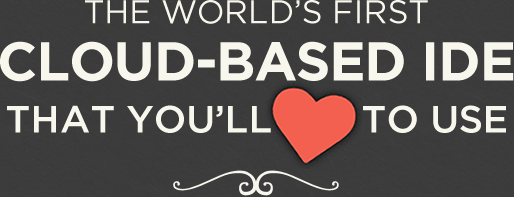
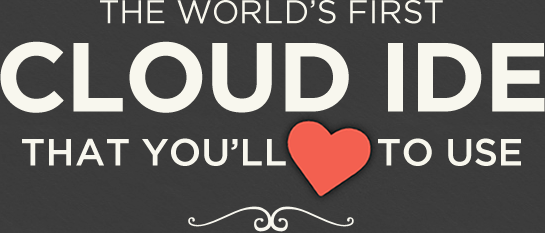
Bigger headline

diff --git a/source/css/home.css.scss b/source/css/home.css.scss
@@ -10,7 +10,7 @@ body.home {
 
         // Headline
         &:first-child {
-          width: 600px;
+          width: 633px;
           margin: 0 auto;
           text-align: center;
 
